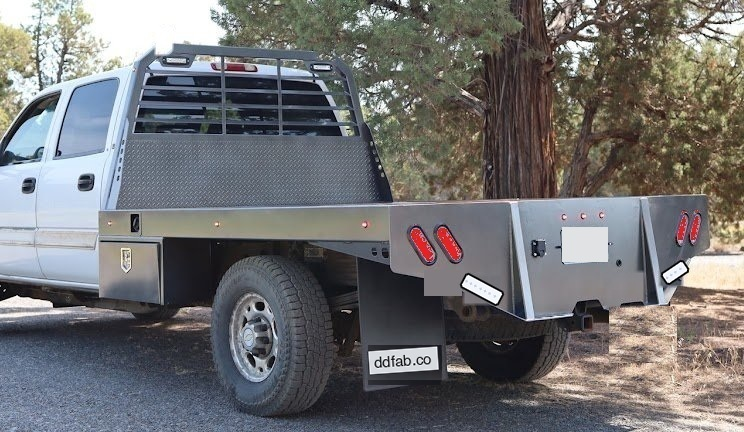
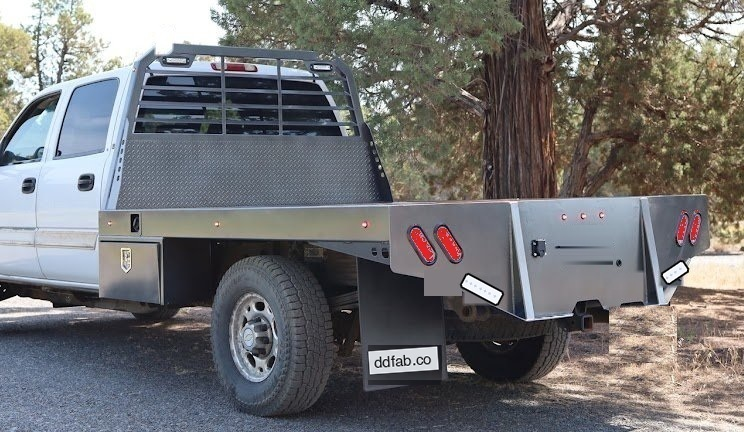
Remove stale static sample shortcut and clean ref_standard_toolboxes.jpg for v9

Changed region(s): [[0.7419, 0.5116, 0.8347, 0.6319]]

diff --git a/src/App.tsx b/src/App.tsx
@@ -725,47 +725,10 @@ export default function App() {
     setQuoteSubmitted(false);
   };
 
-  // Check if current sample selection matches an exact pre-verified instant studio render
+  // Always generate live via the Cloudflare Worker so every sample truck and custom upload
+  // reflects the latest DD Fab hardware references (reverse light bars, ddfab.co mudflaps)
+  // and returns a base64 AI preview attachment for quote emails.
   const getExactPreRenderedSampleMatch = (): string | null => {
-    if (typeof window !== 'undefined' && new URLSearchParams(window.location.search).get('live') === '1') {
-      return null;
-    }
-    if (!uploadedImage || selectedAddOns.length > 0 || wheelConfig !== 'srw') return null;
-    const activeSample = SAMPLE_TRUCKS.find((s) => s.id === activeSampleId);
-    if (
-      !activeSample ||
-      bedLength !== activeSample.bedLength ||
-      truckMakeModel !== activeSample.makeModel
-    ) {
-      return null;
-    }
-
-    if (uploadedImage.includes('stock_f250')) {
-      if (bedStyle === 'standard' && deckType === 'wood') return './assets/f250_heritage_wood.jpg';
-      if (bedStyle === 'standard' && deckType === 'steel') return './assets/f250_standard_work.jpg';
-      if (bedStyle === 'full-skirted' && deckType === 'steel') return './assets/f250_lora_inpaint.jpg';
-    }
-    if (
-      uploadedImage.includes('stock_silverado_2500hd') &&
-      bedStyle === 'standard' &&
-      deckType === 'wood'
-    ) {
-      return './assets/after_silverado_heritage_wood.jpg';
-    }
-    if (
-      uploadedImage.includes('stock_sierra_2500hd') &&
-      bedStyle === 'standard' &&
-      deckType === 'steel'
-    ) {
-      return './assets/after_sierra_standard_utility.jpg';
-    }
-    if (
-      uploadedImage.includes('stock_ram_2500') &&
-      bedStyle === 'full-skirted' &&
-      deckType === 'steel'
-    ) {
-      return './assets/after_ram_deluxe_skirted.jpg';
-    }
     return null;
   };
 
